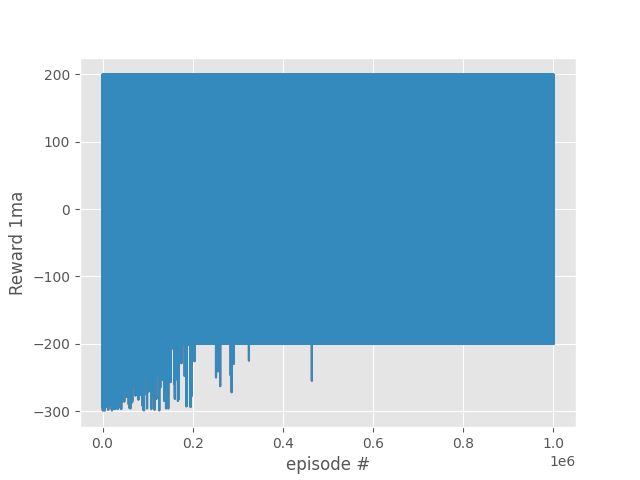
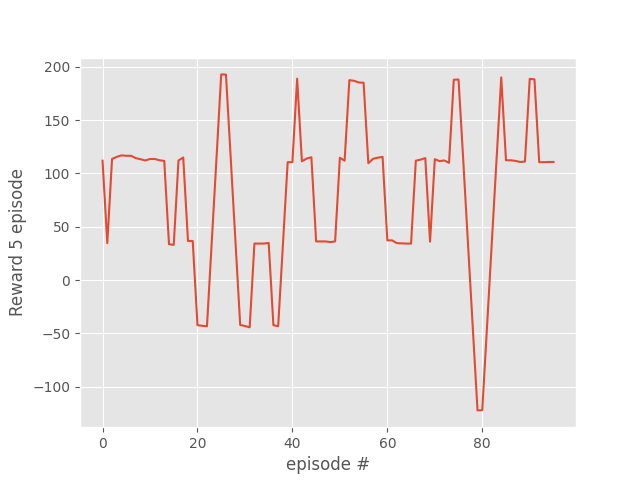
plot params changed

diff --git a/trainer_two_visualise.py b/trainer_two_visualise.py
@@ -20,7 +20,7 @@ EPS_DECAY = 0.9998
 LEARNING_RATE = 0.1
 DISCOUNT = 0.95
 
-SHOW_EVERY = 1
+SHOW_EVERY = 5
 SHOW = False
 
 COP_N = 1  
@@ -261,16 +261,9 @@ for episode in range(EPISODES):
 moving_avg = np.convolve(episode_rewards, np.ones((SHOW_EVERY,))/SHOW_EVERY, mode='valid')
 
 plt.plot([i for i in range(len(moving_avg))], moving_avg)
-plt.plot([i for i in range(len(episode_rewards))], episode_rewards)
-plt.ylabel(f"Reward {SHOW_EVERY}ma")
+plt.ylabel(f"Reward {SHOW_EVERY} episode")
 plt.xlabel("episode #")
-plt.savefig("Graphs/two_performance.png")
 plt.show()
-
-# with open(f"Models/two_cop1_qtable.pickle", "wb") as f:
-#     pickle.dump(cop1.q_table, f)
-# with open(f"Models/two_cop2_qtable.pickle", "wb") as f:
-#     pickle.dump(cop2.q_table, f)
 
 catch_count_total = (catch_count1 + catch_count2)
 print("Catching Percentage : Cop 1 :", catch_count1 * 100 / catch_count_total)

diff --git a/trainer_two_common_visualise.py b/trainer_two_common_visualise.py
@@ -20,7 +20,7 @@ EPS_DECAY = 0.9998
 LEARNING_RATE = 0.1
 DISCOUNT = 0.95
 
-SHOW_EVERY = 1
+SHOW_EVERY = 5
 SHOW = False
 
 COP_N = 1  
@@ -255,14 +255,9 @@ for episode in range(EPISODES):
 moving_avg = np.convolve(episode_rewards, np.ones((SHOW_EVERY,))/SHOW_EVERY, mode='valid')
 
 plt.plot([i for i in range(len(moving_avg))], moving_avg)
-plt.plot([i for i in range(len(episode_rewards))], episode_rewards)
 plt.ylabel(f"Reward {SHOW_EVERY}ma")
 plt.xlabel("episode #")
-plt.savefig("Graphs/two_common_performance.png")
 plt.show()
-
-# with open(f"Models/two_common_qtable.pickle", "wb") as f:
-#     pickle.dump(q_table, f)
 
 catch_count_total = (catch_count1 + catch_count2)
 print("Catching Percentage : Cop 1 :", catch_count1 * 100 / catch_count_total)

diff --git a/trainer_two_common.py b/trainer_two_common.py
@@ -20,7 +20,7 @@ EPS_DECAY = 0.9998
 LEARNING_RATE = 0.1
 DISCOUNT = 0.95
 
-SHOW_EVERY = 1
+SHOW_EVERY = 1000
 SHOW = False
 
 COP_N = 1  
@@ -256,7 +256,6 @@ for episode in range(EPISODES):
 moving_avg = np.convolve(episode_rewards, np.ones((SHOW_EVERY,))/SHOW_EVERY, mode='valid')
 
 plt.plot([i for i in range(len(moving_avg))], moving_avg)
-plt.plot([i for i in range(len(episode_rewards))], episode_rewards)
 plt.ylabel(f"Reward {SHOW_EVERY}ma")
 plt.xlabel("episode #")
 plt.savefig("Graphs/two_common_performance.png")

diff --git a/trainer_two.py b/trainer_two.py
@@ -21,7 +21,7 @@ EPS_DECAY = 0.9998
 LEARNING_RATE = 0.1
 DISCOUNT = 0.95
 
-SHOW_EVERY = 1
+SHOW_EVERY = 1000
 SHOW = False
 
 COP_N = 1  
@@ -264,7 +264,6 @@ for episode in trange(EPISODES):
 moving_avg = np.convolve(episode_rewards, np.ones((SHOW_EVERY,))/SHOW_EVERY, mode='valid')
 
 plt.plot([i for i in range(len(moving_avg))], moving_avg)
-plt.plot([i for i in range(len(episode_rewards))], episode_rewards)
 plt.ylabel(f"Reward {SHOW_EVERY}ma")
 plt.xlabel("episode #")
 plt.savefig("Graphs/two_performance.png")
